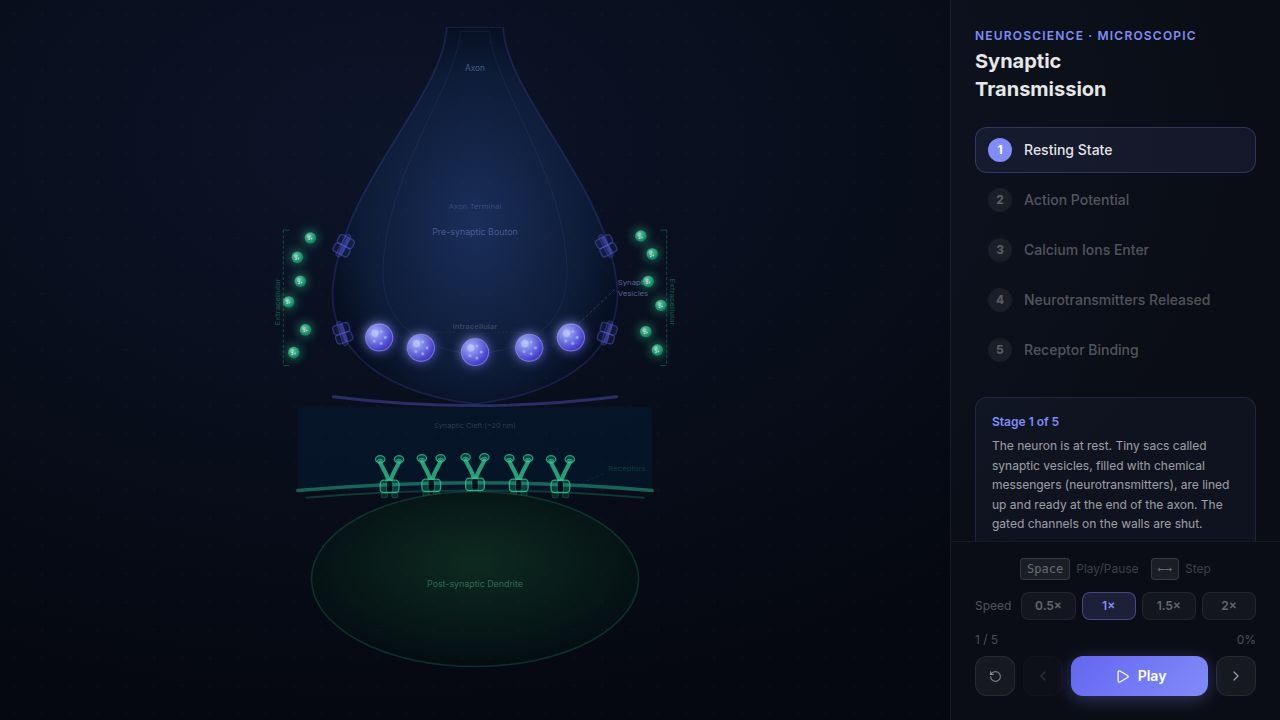
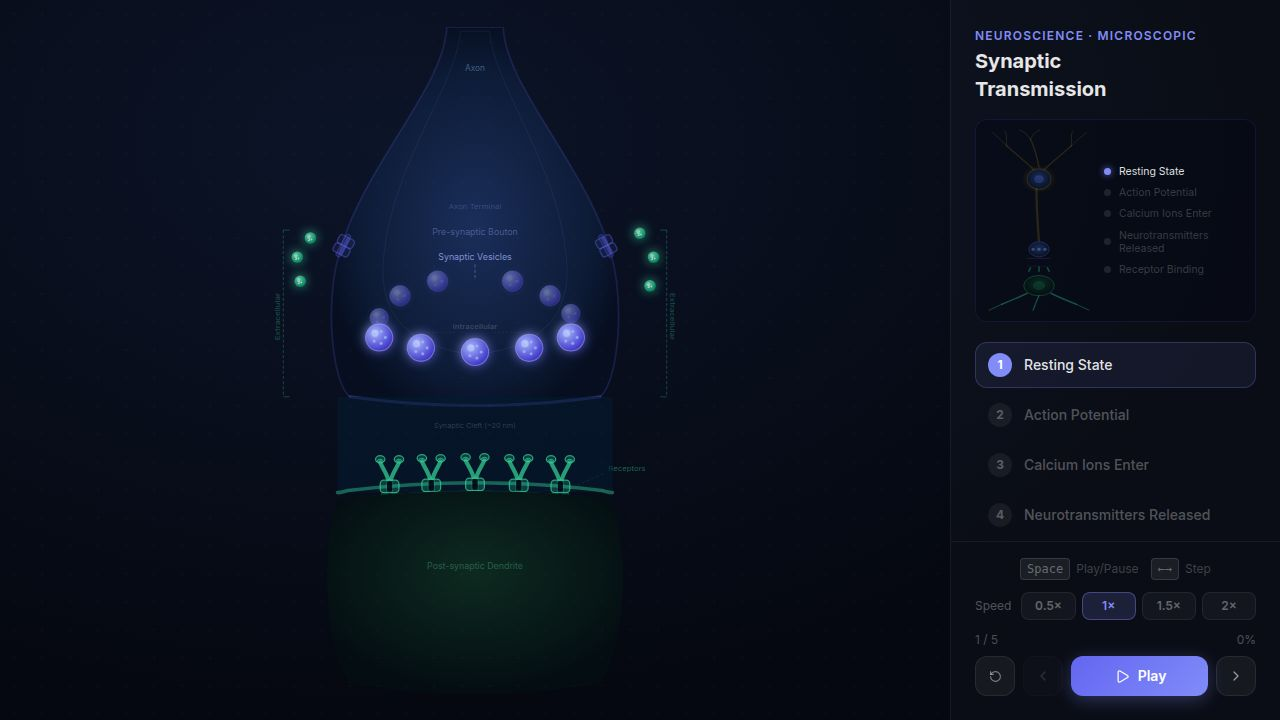
Align neuron membrane widths for a more consistent visual representation
Adjusted x and width attributes in SynapseViz.tsx to ensure consistent sizing of pre-synaptic and post-synaptic components, and updated the synaptic cleft and dendrite body paths accordingly.

Replit-Commit-Author: Agent
Replit-Commit-Session-Id: 45190ca1-0e4f-49ec-a120-8c522ebb3e8b
Replit-Commit-Checkpoint-Type: full_checkpoint
Replit-Commit-Event-Id: 0d053d0d-7146-479b-8a4a-395b1cc10c23
Replit-Commit-Screenshot-Url: https://storage.googleapis.com/screenshot-production-us-central1/b2909f83-3f7e-4354-8e75-7d7fa7eb5526/45190ca1-0e4f-49ec-a120-8c522ebb3e8b/ZvIWVI6
Replit-Helium-Checkpoint-Created: true

diff --git a/artifacts/synapse-viz-app/src/SynapseViz.tsx b/artifacts/synapse-viz-app/src/SynapseViz.tsx
@@ -842,7 +842,7 @@ export function SynapseViz() {
           {/* ═══════════════════════════════════════════════════
               SYNAPTIC CLEFT
           ═══════════════════════════════════════════════════ */}
-          <rect x="70" y="355" width="340" height="90" fill="rgba(4,28,50,0.55)"/>
+          <rect x="108" y="355" width="264" height="92" fill="rgba(4,28,50,0.55)"/>
           <text x={CX} y="385" textAnchor="middle" fontSize="7"
             fill="rgba(148,163,184,0.3)" fontFamily="Inter">Synaptic Cleft (~20 nm)</text>
 
@@ -884,9 +884,9 @@ export function SynapseViz() {
           {/* ═══════════════════════════════════════════════════
               POST-SYNAPTIC MEMBRANE — bilayer (outer + inner leaflet)
           ═══════════════════════════════════════════════════ */}
-          {/* Outer leaflet */}
+          {/* Outer leaflet — matches pre-synaptic active zone width (120→360) */}
           <path
-            d="M 63,447 C 66,447 68,446 70,445 Q 240,430 410,445 C 412,446 414,447 417,447"
+            d="M 108,447 C 111,447 114,446 118,445 Q 240,430 362,445 C 366,446 369,447 372,447"
             fill="none"
             stroke={stageNum === 5 ? `rgba(244,114,182,${0.38 + recBound * 0.48})` : 'rgba(52,211,153,0.42)'}
             strokeWidth="3.5"
@@ -895,7 +895,7 @@ export function SynapseViz() {
           />
           {/* Inner leaflet */}
           <path
-            d="M 71,454 C 74,453 76,452 78,452 Q 240,438 402,452 C 404,452 406,453 409,454"
+            d="M 116,455 C 119,454 122,453 126,453 Q 240,439 354,453 C 358,453 361,454 364,455"
             fill="none"
             stroke={stageNum === 5 ? `rgba(244,114,182,${0.18 + recBound * 0.28})` : 'rgba(52,211,153,0.22)'}
             strokeWidth="2"
@@ -993,17 +993,18 @@ export function SynapseViz() {
           })}
 
           {/* POST-SYNAPTIC DENDRITE BODY — rounded arch cross-section of a cylindrical dendrite.
-              Top edge matches inner leaflet exactly (no gap → no ghost line).
+              Top edge aligns with inner leaflet (116→364) — no gap, no ghost line.
+              Width matches pre-synaptic terminal (~108→372) for visual consistency.
               Bottom is a pronounced arch that exits the viewport naturally. */}
           {stageNum === 5 && recBound > 0.1 && (
             <path
-              d="M 63,452 Q 240,437 417,452 C 435,510 432,595 399,634 Q 240,654 81,634 C 48,595 45,510 63,452 Z"
+              d="M 108,453 Q 240,438 372,453 C 388,508 385,592 360,630 Q 240,650 120,630 C 95,592 92,508 108,453 Z"
               fill={`rgba(244,114,182,${recBound * 0.08})`}
               filter="url(#glow-p)"
             />
           )}
           <path
-            d="M 63,452 Q 240,437 417,452 C 435,510 432,595 399,634 Q 240,654 81,634 C 48,595 45,510 63,452 Z"
+            d="M 108,453 Q 240,438 372,453 C 388,508 385,592 360,630 Q 240,650 120,630 C 95,592 92,508 108,453 Z"
             fill="url(#postGrad)"
           />
           <text x={CX} y="520" textAnchor="middle" fontSize="8.5"
